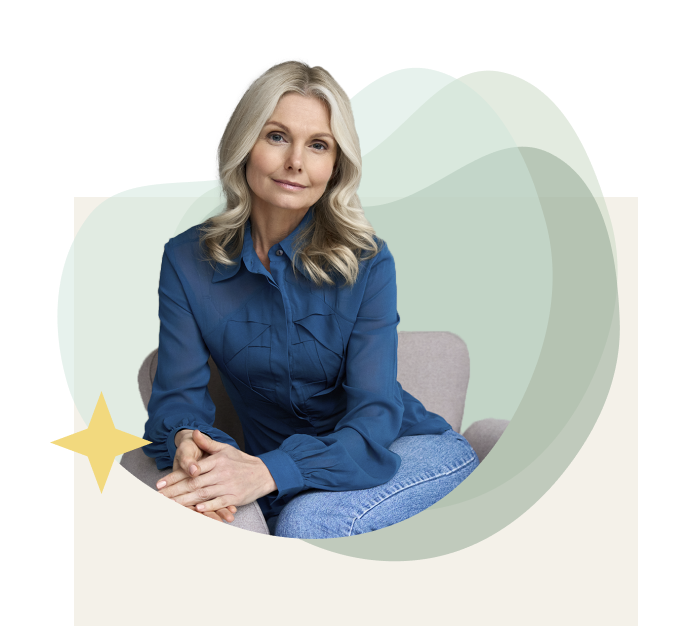
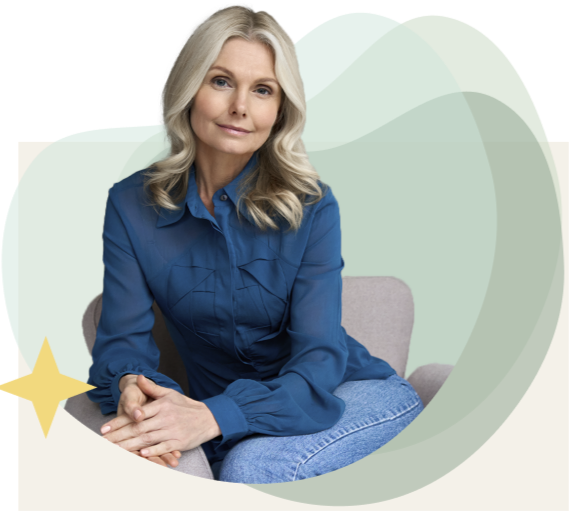
added help section

diff --git a/src/index.html b/src/index.html
@@ -33,15 +33,49 @@
         <section class="hero">
             <div class="flex justify-between w-[1434px] m-auto">
                 <div class="flex flex-col mt-[69px]">
-                    <h1 class="font-haus text-8xl text-swamp">Ваш психолог</h1>
+                    <h1 class="font-haus text-8xl text-swamp w-[450px]">Ваш психолог</h1>
                     <span class="font-mainlight block mt-10 mb-8 w-[406px] text-[28px] text-swamp">Консультации психолога онлайн и ретриты в любой точке мира</span>
                     <button class="bg-forest text-white rounded-3xl w-[410px] py-[24px] font-mainbold text-xl hover:bg-swamp transition-all">Получить бесплатную консультацию</button>
                     <img src="img/hero/Vector1.svg" alt="Загагулина" class="vector w-[269px] translate-x-[-75px] translate-y-[-40px]">
                 </div>
-                <div class="image-container">
+                <div class="image-container mt-10">
                     <picture>
-                        <img src="img/hero/psyche.png" alt="Психолог Анна Швец">
+                        <img src="img/hero/psyche.png" alt="Психолог Анна Швец" class="w-[710px]">
                     </picture>
+                </div>
+            </div>
+        </section>
+        <section class="help mt-24">
+            <div class="flex justify-evenly w-[1434px] m-auto">
+                <picture class="translate-x-[-120px]">
+                    <img src="img/help/depression.svg" alt="Девушка в депрессии"  class="w-[590px]">
+                </picture>
+                <div class="flex flex-col">
+                    <h2 class="font-haus text-6xl text-swamp pl-[70px]">Помогу вам при</h2>
+                    <div class="flex mt-7">
+                        <svg width="49" height="49" viewBox="0 0 49 49" fill="none" xmlns="http://www.w3.org/2000/svg" class="mr-12 self-center">
+                            <path d="M24.5 0L31.1172 17.8828L49 24.5L31.1172 31.1172L24.5 49L17.8828 31.1172L0 24.5L17.8828 17.8828L24.5 0Z" fill="#F2D97E"/>
+                        </svg>
+                        <span class="w-[530px] font-mainlight text-swamp text-2xl leading-10">упадке сил, апатии, когда вся жизнь не мила, когда кажется, что в жизни чёрная полоса </span>
+                    </div>
+                    <div class="flex mt-9">
+                        <svg width="49" height="49" viewBox="0 0 49 49" fill="none" xmlns="http://www.w3.org/2000/svg" class="mr-12 self-center">
+                            <path d="M24.5 0L31.1172 17.8828L49 24.5L31.1172 31.1172L24.5 49L17.8828 31.1172L0 24.5L17.8828 17.8828L24.5 0Z" fill="#F2D97E"/>
+                        </svg>
+                        <span class="w-[530px] font-mainlight text-swamp text-2xl leading-10">тревоге, навязчивых мыслях, при ощущении неопределенности и отрицательных эмоциях</span>
+                    </div>
+                    <div class="flex mt-9">
+                        <svg width="49" height="49" viewBox="0 0 49 49" fill="none" xmlns="http://www.w3.org/2000/svg" class="mr-12 self-center">
+                            <path d="M24.5 0L31.1172 17.8828L49 24.5L31.1172 31.1172L24.5 49L17.8828 31.1172L0 24.5L17.8828 17.8828L24.5 0Z" fill="#F2D97E"/>
+                        </svg>
+                        <span class="w-[515px] font-mainlight text-swamp text-2xl leading-10">помогу разобраться с двойственными мыслями и научиться слышать себя  </span>
+                    </div>
+                    <div class="flex mt-9">
+                        <svg width="49" height="49" viewBox="0 0 49 49" fill="none" xmlns="http://www.w3.org/2000/svg" class="mr-12 self-center">
+                            <path d="M24.5 0L31.1172 17.8828L49 24.5L31.1172 31.1172L24.5 49L17.8828 31.1172L0 24.5L17.8828 17.8828L24.5 0Z" fill="#F2D97E"/>
+                        </svg>
+                        <span class="w-[505px] font-mainlight text-swamp text-2xl leading-10">недопонимании в семье, когда тебя не слышат и не слушают </span>
+                    </div>
                 </div>
             </div>
         </section>

diff --git a/dist/output.css b/dist/output.css
@@ -545,6 +545,22 @@ Ensure the default browser behavior of the `hidden` attribute.
   margin-right: 1rem;
 }
 
+.mt-24 {
+  margin-top: 6rem;
+}
+
+.mt-7 {
+  margin-top: 1.75rem;
+}
+
+.mr-12 {
+  margin-right: 3rem;
+}
+
+.mt-9 {
+  margin-top: 2.25rem;
+}
+
 .block {
   display: block;
 }
@@ -585,6 +601,50 @@ Ensure the default browser behavior of the `hidden` attribute.
   width: 269px;
 }
 
+.w-\[584px\] {
+  width: 584px;
+}
+
+.w-\[567px\] {
+  width: 567px;
+}
+
+.w-\[530px\] {
+  width: 530px;
+}
+
+.w-\[450px\] {
+  width: 450px;
+}
+
+.w-\[850px\] {
+  width: 850px;
+}
+
+.w-\[830px\] {
+  width: 830px;
+}
+
+.w-\[790px\] {
+  width: 790px;
+}
+
+.w-\[590px\] {
+  width: 590px;
+}
+
+.w-\[515px\] {
+  width: 515px;
+}
+
+.w-\[505px\] {
+  width: 505px;
+}
+
+.w-\[710px\] {
+  width: 710px;
+}
+
 .translate-x-\[-60px\] {
   --tw-translate-x: -60px;
   transform: translate(var(--tw-translate-x), var(--tw-translate-y)) rotate(var(--tw-rotate)) skewX(var(--tw-skew-x)) skewY(var(--tw-skew-y)) scaleX(var(--tw-scale-x)) scaleY(var(--tw-scale-y));
@@ -615,12 +675,21 @@ Ensure the default browser behavior of the `hidden` attribute.
   transform: translate(var(--tw-translate-x), var(--tw-translate-y)) rotate(var(--tw-rotate)) skewX(var(--tw-skew-x)) skewY(var(--tw-skew-y)) scaleX(var(--tw-scale-x)) scaleY(var(--tw-scale-y));
 }
 
+.translate-x-\[-120px\] {
+  --tw-translate-x: -120px;
+  transform: translate(var(--tw-translate-x), var(--tw-translate-y)) rotate(var(--tw-rotate)) skewX(var(--tw-skew-x)) skewY(var(--tw-skew-y)) scaleX(var(--tw-scale-x)) scaleY(var(--tw-scale-y));
+}
+
 .flex-col {
   flex-direction: column;
 }
 
 .justify-between {
   justify-content: space-between;
+}
+
+.justify-evenly {
+  justify-content: space-evenly;
 }
 
 .gap-20 {
@@ -667,6 +736,10 @@ Ensure the default browser behavior of the `hidden` attribute.
   padding-right: 12rem;
 }
 
+.pl-\[70px\] {
+  padding-left: 70px;
+}
+
 .font-haus {
   font-family: 'Lighthaus', mono;
 }
@@ -677,6 +750,10 @@ Ensure the default browser behavior of the `hidden` attribute.
 
 .font-mainbold {
   font-family: 'San Francisco Pro Display Bold', sans-serif;
+}
+
+.font-main {
+  font-family: 'San Francisco Pro Display Regular', sans-serif;
 }
 
 .text-3xl {
@@ -701,6 +778,15 @@ Ensure the default browser behavior of the `hidden` attribute.
 .text-xl {
   font-size: 1.25rem;
   line-height: 1.75rem;
+}
+
+.text-6xl {
+  font-size: 3.75rem;
+  line-height: 1;
+}
+
+.leading-10 {
+  line-height: 2.5rem;
 }
 
 .text-forest {
